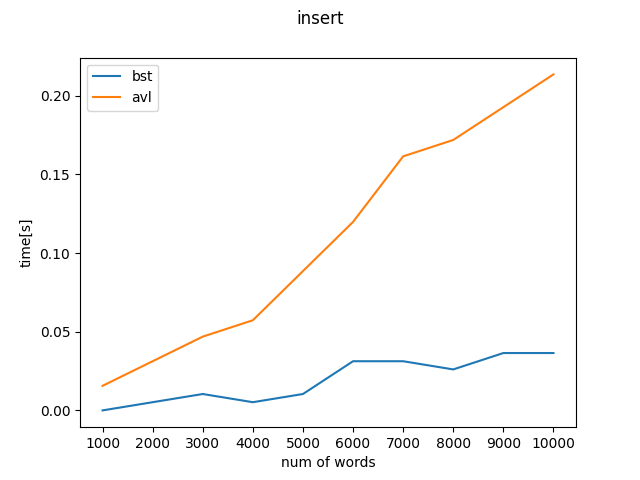
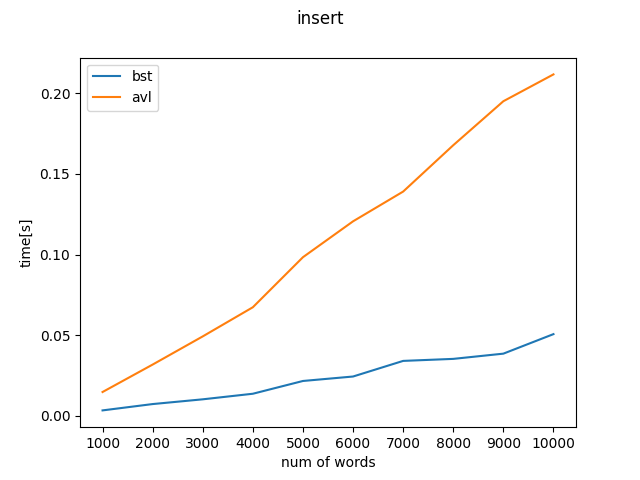
updated graphs

diff --git a/main.py b/main.py
@@ -58,25 +58,25 @@ def plot_it(name, bst_time, avl_time):
     plt.close()
 
 def main():
-    # for i in range(1, NUM_OF_ITERATIONS+1):
-    #     binary_tree = tree.bstTree(tree.bstNode(random.randint(1, 30000)))
-    #     #avl_tree = tree.AVLTree()
-    #     avl_tree = tree.avlTree(tree.avlNode(0))
-    #     insert_times_blt.append(measure_time(loop_insert, i, binary_tree))
-    #     insert_times_avl.append(measure_time(loop_insert, i, avl_tree))
+    for i in range(1, NUM_OF_ITERATIONS+1):
+        binary_tree = tree.bstTree(tree.bstNode(random.randint(1, 30000)))
+        #avl_tree = tree.AVLTree()
+        avl_tree = tree.avlTree(tree.avlNode(0))
+        insert_times_blt.append(measure_time(loop_insert, i, binary_tree))
+        insert_times_avl.append(measure_time(loop_insert, i, avl_tree))
 
-    #     find_times_blt.append(measure_time(loop_find, i, binary_tree))
-    #     find_times_avl.append(measure_time(loop_find, i, avl_tree))
+        find_times_blt.append(measure_time(loop_find, i, binary_tree))
+        find_times_avl.append(measure_time(loop_find, i, avl_tree))
 
-    #     remove_times_blt.append(measure_time(loop_remove, i, binary_tree))
-    #     remove_times_avl.append(measure_time(loop_remove, i, avl_tree))
+        remove_times_blt.append(measure_time(loop_remove, i, binary_tree))
+        remove_times_avl.append(measure_time(loop_remove, i, avl_tree))
 
-    # plot_it('insert', insert_times_blt, insert_times_avl)
-    # plot_it('remove', remove_times_blt, remove_times_avl)
-    # plot_it('find', find_times_blt, find_times_avl)
+    plot_it('insert', insert_times_blt, insert_times_avl)
+    plot_it('remove', remove_times_blt, remove_times_avl)
+    plot_it('find', find_times_blt, find_times_avl)
 
-   # print(insert_times_avl)
-    #print(insert_times_blt)
+    print(insert_times_avl)
+    print(insert_times_blt)
 
     # nodzik = tree.bstNode(20)
     # DRZEWO = tree.bstTree(nodzik)
@@ -91,23 +91,23 @@ def main():
     # DRZEWO.insert(2)
     # DRZEWO.insert(1)
 
-    nodzik = tree.avlNode(20)
-    DRZEWO = tree.avlTree(nodzik)
-    DRZEWO.insert(48)
-    DRZEWO.insert(14)
-    DRZEWO.insert(73)
-    DRZEWO.insert(29)
-    DRZEWO.insert(65)
-    DRZEWO.insert(36)
-    DRZEWO.insert(67)
-    DRZEWO.insert(78)
-    DRZEWO.insert(13)
-    DRZEWO.insert(93)
-    DRZEWO.remove(13)
-    DRZEWO.remove(48)
-    DRZEWO.remove(14)
+    # nodzik = tree.avlNode(20)
+    # DRZEWO = tree.avlTree(nodzik)
+    # DRZEWO.insert(48)
+    # DRZEWO.insert(14)
+    # DRZEWO.insert(73)
+    # DRZEWO.insert(29)
+    # DRZEWO.insert(65)
+    # DRZEWO.insert(36)
+    # DRZEWO.insert(67)
+    # DRZEWO.insert(78)
+    # DRZEWO.insert(13)
+    # DRZEWO.insert(93)
+    # DRZEWO.remove(13)
+    # DRZEWO.remove(48)
+    # DRZEWO.remove(14)
 
-    print(DRZEWO)
+    # print(DRZEWO)
 
 
     # DRZEWKO.remove(10)

diff --git a/tree.py b/tree.py
@@ -72,7 +72,8 @@ class bstTree:
                 last_node = node
                 node = node.getLeftChild()
             else:
-                raise ValueError("This valuse is already present")
+                # raise ValueError("This valuse is already present")
+                return
         
         if val > last_node.getVal():
             last_node.setRightChild(bstNode(val))
@@ -192,12 +193,6 @@ class avlNode(bstNode):
         r_height = avlNode.getHeight(node.getRightChild()) + 1
         return l_height if l_height > r_height else r_height
 
-    # def replace(self, node:'avlNode') -> None:
-    #     self.val = node.getVal()
-    #     self.height = node.height
-    #     self.l_child = node.getLeftChild()
-    #     self.r_child = node.getRightChild()
-
 class avlTree(bstTree):
     def __init__(self, root: avlNode, treshold=1) -> None:
         self.root:avlNode = root
@@ -258,7 +253,8 @@ class avlTree(bstTree):
                 last_node = node
                 node = node.getLeftChild()
             else:
-                raise ValueError("This valuse is already present")
+                # raise ValueError("This valuse is already present")
+                return
         
         if val > last_node.getVal():
             last_node.setRightChild(avlNode(val))
@@ -331,8 +327,11 @@ class avlTree(bstTree):
             return avlNode(val)
         elif val < node.getVal():
             node.setLeftChild(self._insertHelper(node.getLeftChild(), val))
-        else:
+        elif val > node.getVal():
             node.setRightChild(self._insertHelper(node.getRightChild(), val))
+        else:
+            # raise ValueError("This valuse is already present")
+            return
 
         node.height = 1 + max(self.getHeight(node.getLeftChild()),
                            self.getHeight(node.getRightChild()))
